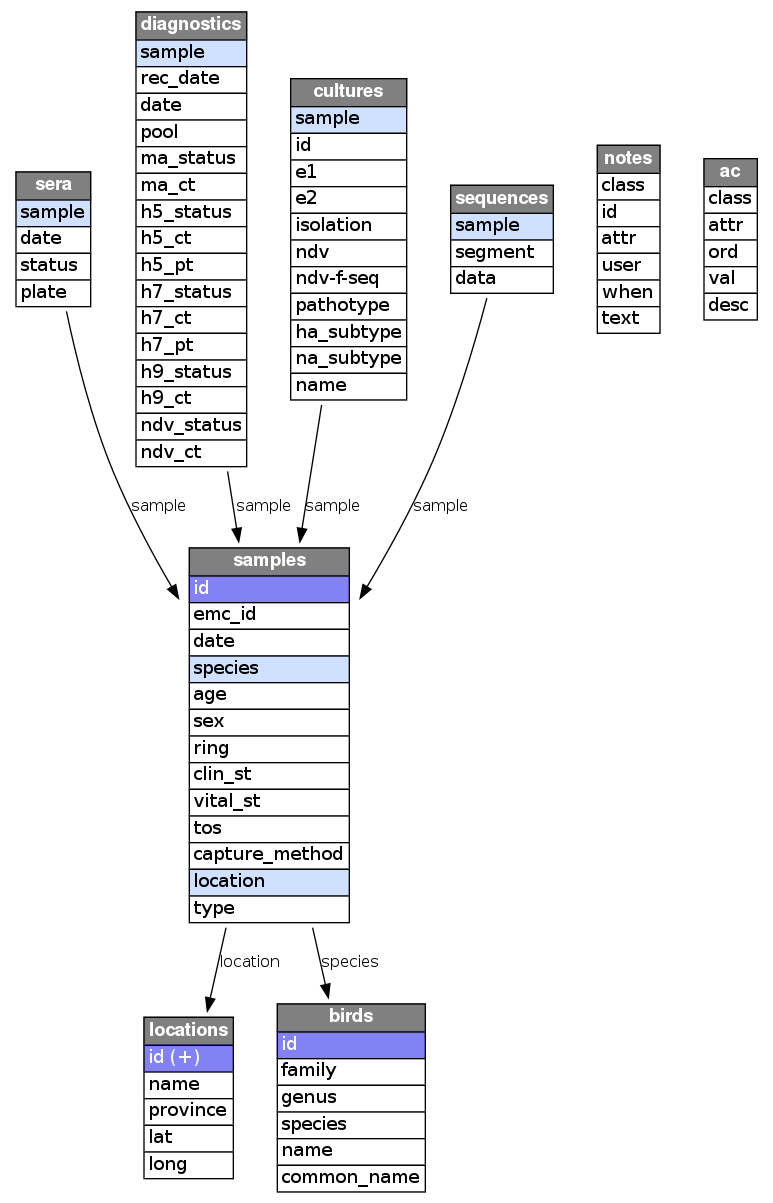
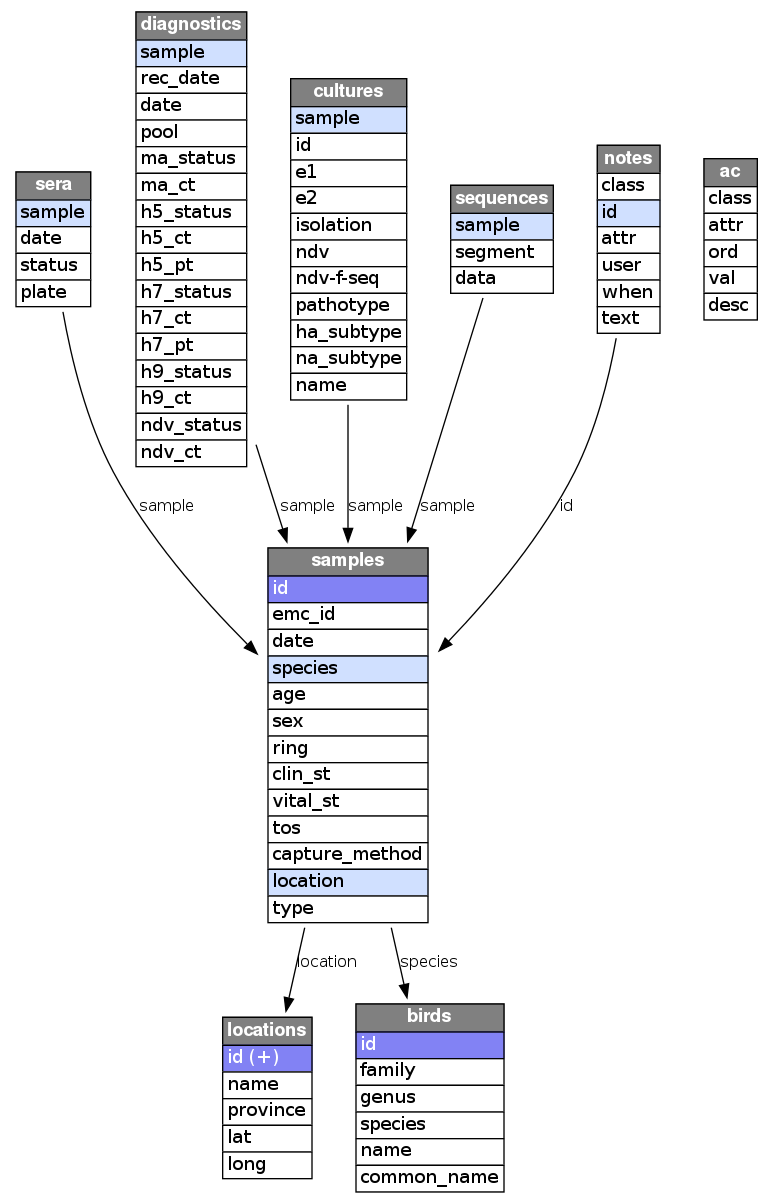
added a ref between notes and samples

diff --git a/schema/bfs-schema.html b/schema/bfs-schema.html
@@ -3,33 +3,33 @@
 <body><div>
 <img src="bfs-schema.png" usemap="test\#test" alt="graphical database schema">
 <map id="test" name="test">
-<area shape="rect" id="samples" href="bfs-meta.html#class:samples" title="&lt;TABLE&gt;" alt="" coords="189,548,349,576"/>
-<area shape="rect" id="samples" href="bfs-meta.html#samples:id" title="&lt;TABLE&gt;" alt="" coords="189,576,349,603"/>
-<area shape="rect" id="samples" href="bfs-meta.html#samples:emc_id" title="&lt;TABLE&gt;" alt="" coords="189,603,349,629"/>
-<area shape="rect" id="samples" href="bfs-meta.html#samples:date" title="&lt;TABLE&gt;" alt="" coords="189,629,349,656"/>
-<area shape="rect" id="samples" href="bfs-meta.html#samples:species" title="&lt;TABLE&gt;" alt="" coords="189,656,349,683"/>
-<area shape="rect" id="samples" href="bfs-meta.html#samples:age" title="&lt;TABLE&gt;" alt="" coords="189,683,349,709"/>
-<area shape="rect" id="samples" href="bfs-meta.html#samples:sex" title="&lt;TABLE&gt;" alt="" coords="189,709,349,736"/>
-<area shape="rect" id="samples" href="bfs-meta.html#samples:ring" title="&lt;TABLE&gt;" alt="" coords="189,736,349,763"/>
-<area shape="rect" id="samples" href="bfs-meta.html#samples:clin_st" title="&lt;TABLE&gt;" alt="" coords="189,763,349,789"/>
-<area shape="rect" id="samples" href="bfs-meta.html#samples:vital_st" title="&lt;TABLE&gt;" alt="" coords="189,789,349,816"/>
-<area shape="rect" id="samples" href="bfs-meta.html#samples:tos" title="&lt;TABLE&gt;" alt="" coords="189,816,349,843"/>
-<area shape="rect" id="samples" href="bfs-meta.html#samples:capture_method" title="&lt;TABLE&gt;" alt="" coords="189,843,349,869"/>
-<area shape="rect" id="samples" href="bfs-meta.html#samples:location" title="&lt;TABLE&gt;" alt="" coords="189,869,349,896"/>
-<area shape="rect" id="samples" href="bfs-meta.html#samples:type" title="&lt;TABLE&gt;" alt="" coords="189,896,349,923"/>
-<area shape="rect" id="locations" href="bfs-meta.html#class:locations" title="&lt;TABLE&gt;" alt="" coords="144,1017,233,1045"/>
-<area shape="rect" id="locations" href="bfs-meta.html#locations:id" title="&lt;TABLE&gt;" alt="" coords="144,1045,233,1072"/>
-<area shape="rect" id="locations" href="bfs-meta.html#locations:name" title="&lt;TABLE&gt;" alt="" coords="144,1072,233,1099"/>
-<area shape="rect" id="locations" href="bfs-meta.html#locations:province" title="&lt;TABLE&gt;" alt="" coords="144,1099,233,1125"/>
-<area shape="rect" id="locations" href="bfs-meta.html#locations:lat" title="&lt;TABLE&gt;" alt="" coords="144,1125,233,1152"/>
-<area shape="rect" id="locations" href="bfs-meta.html#locations:long" title="&lt;TABLE&gt;" alt="" coords="144,1152,233,1179"/>
-<area shape="rect" id="birds" href="bfs-meta.html#class:birds" title="&lt;TABLE&gt;" alt="" coords="277,1004,425,1032"/>
-<area shape="rect" id="birds" href="bfs-meta.html#birds:id" title="&lt;TABLE&gt;" alt="" coords="277,1032,425,1059"/>
-<area shape="rect" id="birds" href="bfs-meta.html#birds:family" title="&lt;TABLE&gt;" alt="" coords="277,1059,425,1085"/>
-<area shape="rect" id="birds" href="bfs-meta.html#birds:genus" title="&lt;TABLE&gt;" alt="" coords="277,1085,425,1112"/>
-<area shape="rect" id="birds" href="bfs-meta.html#birds:species" title="&lt;TABLE&gt;" alt="" coords="277,1112,425,1139"/>
-<area shape="rect" id="birds" href="bfs-meta.html#birds:name" title="&lt;TABLE&gt;" alt="" coords="277,1139,425,1165"/>
-<area shape="rect" id="birds" href="bfs-meta.html#birds:common_name" title="&lt;TABLE&gt;" alt="" coords="277,1165,425,1192"/>
+<area shape="rect" id="samples" href="bfs-meta.html#class:samples" title="&lt;TABLE&gt;" alt="" coords="268,548,428,576"/>
+<area shape="rect" id="samples" href="bfs-meta.html#samples:id" title="&lt;TABLE&gt;" alt="" coords="268,576,428,603"/>
+<area shape="rect" id="samples" href="bfs-meta.html#samples:emc_id" title="&lt;TABLE&gt;" alt="" coords="268,603,428,629"/>
+<area shape="rect" id="samples" href="bfs-meta.html#samples:date" title="&lt;TABLE&gt;" alt="" coords="268,629,428,656"/>
+<area shape="rect" id="samples" href="bfs-meta.html#samples:species" title="&lt;TABLE&gt;" alt="" coords="268,656,428,683"/>
+<area shape="rect" id="samples" href="bfs-meta.html#samples:age" title="&lt;TABLE&gt;" alt="" coords="268,683,428,709"/>
+<area shape="rect" id="samples" href="bfs-meta.html#samples:sex" title="&lt;TABLE&gt;" alt="" coords="268,709,428,736"/>
+<area shape="rect" id="samples" href="bfs-meta.html#samples:ring" title="&lt;TABLE&gt;" alt="" coords="268,736,428,763"/>
+<area shape="rect" id="samples" href="bfs-meta.html#samples:clin_st" title="&lt;TABLE&gt;" alt="" coords="268,763,428,789"/>
+<area shape="rect" id="samples" href="bfs-meta.html#samples:vital_st" title="&lt;TABLE&gt;" alt="" coords="268,789,428,816"/>
+<area shape="rect" id="samples" href="bfs-meta.html#samples:tos" title="&lt;TABLE&gt;" alt="" coords="268,816,428,843"/>
+<area shape="rect" id="samples" href="bfs-meta.html#samples:capture_method" title="&lt;TABLE&gt;" alt="" coords="268,843,428,869"/>
+<area shape="rect" id="samples" href="bfs-meta.html#samples:location" title="&lt;TABLE&gt;" alt="" coords="268,869,428,896"/>
+<area shape="rect" id="samples" href="bfs-meta.html#samples:type" title="&lt;TABLE&gt;" alt="" coords="268,896,428,923"/>
+<area shape="rect" id="locations" href="bfs-meta.html#class:locations" title="&lt;TABLE&gt;" alt="" coords="223,1017,312,1045"/>
+<area shape="rect" id="locations" href="bfs-meta.html#locations:id" title="&lt;TABLE&gt;" alt="" coords="223,1045,312,1072"/>
+<area shape="rect" id="locations" href="bfs-meta.html#locations:name" title="&lt;TABLE&gt;" alt="" coords="223,1072,312,1099"/>
+<area shape="rect" id="locations" href="bfs-meta.html#locations:province" title="&lt;TABLE&gt;" alt="" coords="223,1099,312,1125"/>
+<area shape="rect" id="locations" href="bfs-meta.html#locations:lat" title="&lt;TABLE&gt;" alt="" coords="223,1125,312,1152"/>
+<area shape="rect" id="locations" href="bfs-meta.html#locations:long" title="&lt;TABLE&gt;" alt="" coords="223,1152,312,1179"/>
+<area shape="rect" id="birds" href="bfs-meta.html#class:birds" title="&lt;TABLE&gt;" alt="" coords="356,1004,504,1032"/>
+<area shape="rect" id="birds" href="bfs-meta.html#birds:id" title="&lt;TABLE&gt;" alt="" coords="356,1032,504,1059"/>
+<area shape="rect" id="birds" href="bfs-meta.html#birds:family" title="&lt;TABLE&gt;" alt="" coords="356,1059,504,1085"/>
+<area shape="rect" id="birds" href="bfs-meta.html#birds:genus" title="&lt;TABLE&gt;" alt="" coords="356,1085,504,1112"/>
+<area shape="rect" id="birds" href="bfs-meta.html#birds:species" title="&lt;TABLE&gt;" alt="" coords="356,1112,504,1139"/>
+<area shape="rect" id="birds" href="bfs-meta.html#birds:name" title="&lt;TABLE&gt;" alt="" coords="356,1139,504,1165"/>
+<area shape="rect" id="birds" href="bfs-meta.html#birds:common_name" title="&lt;TABLE&gt;" alt="" coords="356,1165,504,1192"/>
 <area shape="rect" id="sera" href="bfs-meta.html#class:sera" title="&lt;TABLE&gt;" alt="" coords="16,172,91,200"/>
 <area shape="rect" id="sera" href="bfs-meta.html#sera:sample" title="&lt;TABLE&gt;" alt="" coords="16,200,91,227"/>
 <area shape="rect" id="sera" href="bfs-meta.html#sera:date" title="&lt;TABLE&gt;" alt="" coords="16,227,91,253"/>

diff --git a/schema/bfs-meta.html b/schema/bfs-meta.html
@@ -1512,7 +1512,7 @@
       </td>
     </tr>
     <tr>
-      <td href="bfs-meta.html#notes:id" align="left" valign="top" bgcolor="white">
+      <td href="bfs-meta.html#notes:id" align="left" valign="top" bgcolor="#D0E0FF">
         <a name="notes:id"> id
       </td>
       <td valign="top"> text </td>

diff --git a/data/README.md b/data/README.md
@@ -82,10 +82,13 @@ Perfect match.
 #### species
 
 
-#### Sex
+#### sex
 ```sql
 SELECT s.sex, j.sex FROM samples s, j_samples j WHERE s.id = j.id AND NOT (s.sex IS NULL AND j.sex = 'U') AND s.sex <> j.sex;
 ```
 This query shows a perfect match except for `U` in Josanne's set corresponding
 to NULL in the earlier EMC set.
+
+We have later decided to replace all `U`'s with NULLs and now there is a
+perfect match.
 
